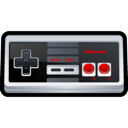
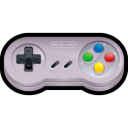
Ajout image des manettes dans la page d'affichage des roms

diff --git a/webemul/src/main/webapp/app/entities/rom/roms.html b/webemul/src/main/webapp/app/entities/rom/roms.html
@@ -1,8 +1,12 @@
-<div>
+<div ng-show="vm.loading">
+	<img src="content/images/ajax-loader.gif"  class="img-responsive center-block" />
+</div>  
+	
+<div ng-show="!vm.loading">
 	<div class="container-fluid">
 		<div class="row">			
 			<div class="col-md-8 col-md-offset-2">
-				<div id="dock-container">
+				<div id="dock-container" ng-show="vm.roms && vm.roms.length>0">
 					<div id="dock">
 						<ul>
 							<li ng-repeat="console in vm.consoles | orderBy:['manufacturer', 'bits', 'name']"><span>{{console.abbreviation}}</span>
@@ -24,7 +28,13 @@
 
 	<br />
 	
-	<div class="widget stacked widget-table action-table">
+	<div ng-show="vm.roms && vm.roms.length==0">
+    	<div class="alert alert-info">
+  			<strong>No rom found ! </strong> The database doesn't contain any rom.
+		</div>    	
+    </div>
+	
+	<div ng-show="vm.roms && vm.roms.length>0" class="widget stacked widget-table action-table">
 
 		<div class="widget-content">
 
@@ -53,8 +63,8 @@
 						ng-repeat="console in vm.consoles"> <a
 							ng-show="rom.consoleId==console.id"
 							ui-sref="console-detail({id:rom.consoleId})"> <img
-								ng-show="console.pathIcon" style="width: 40px;"
-								ng-src="{{console.pathIcon}}" alt="...">
+								ng-show="console.pathControllerIcon" style="width: 40px;"
+								ng-src="{{console.pathControllerIcon}}" alt="...">
 						</a>
 					</span></td>
 					<td style="vertical-align: middle"><img ng-if="rom.cover"
@@ -97,75 +107,11 @@
 			</table>
 
 		</div>
-		<!-- /widget-content -->
-
 	</div>
-	<!-- /widget -->
-	
-	
-
-	<!-- div class="table-responsive">
-		<table class="jh-table table table-striped table-hover">
-			<thead>
-				<tr jh-sort="vm.predicate" ascending="vm.reverse"
-					callback="vm.transition()">
-					<th jh-sort-by="consoleId"><span>CONSOLE</span> <span
-						class="glyphicon glyphicon-sort"></span></th>
-					<th></th>
-					<th jh-sort-by="name"><span>NAME</span> <span
-						class="glyphicon glyphicon-sort"></span></th>
-					<th><span>CATEGORIES</span></th>
-					<th></th>
-				</tr>
-			</thead>
-			<tbody>
-				<tr ng-repeat="rom in vm.roms track by rom.id">
-					<td style="vertical-align: middle"><span
-						ng-repeat="console in vm.consoles"> <a
-							ng-show="rom.consoleId==console.id"
-							ui-sref="console-detail({id:rom.consoleId})"> <img
-								ng-show="console.pathIcon" style="width: 40px;"
-								ng-src="{{console.pathIcon}}" alt="...">
-						</a>
-					</span></td>
-					<td style="vertical-align: middle"><img ng-if="rom.cover"
-						ng-src="{{rom.img}}" style="margin: auto; height: 70px"
-						ng-click="vm.openFile(rom.coverContentType, rom.cover)"
-						uib-popover popover-trigger="mouseenter" popover-placement="right"
-						uib-popover-template="'cover.html'"></td>
-					<td style="vertical-align: middle">{{rom.name}}</td>
-					<td style="vertical-align: middle"><span
-						ng-repeat="genre in rom.genres | orderBy:'name'">
-							{{genre.name}}{{$last ? '' : ', '}} </span></td>
-					<td style="vertical-align: middle" class="text-right">
-						<div class="btn-group flex-btn-group-container">
-							<button type="submit" ui-sref="rom-detail({id:rom.id})"
-								class="btn btn-info btn-sm">
-								<span class="glyphicon glyphicon-eye-open"></span> <span
-									class="hidden-sm-down"></span>
-							</button>
-							<button type="submit" ui-sref="rom.edit({id:rom.id})"
-								class="btn btn-primary btn-sm">
-								<span class="glyphicon glyphicon-pencil"></span> <span
-									class="hidden-sm-down"></span>
-							</button>
-							<button type="submit" ui-sref="rom.delete({id:rom.id})"
-								class="btn btn-danger btn-sm">
-								<span class="glyphicon glyphicon-remove-circle"></span> <span
-									class="hidden-sm-down"></span>
-							</button>
-						</div>
-					</td>
-				</tr>
-			</tbody>
-		</table>
-	</div-->
-	<div class="text-center">
-		<jhi-item-count page="vm.page" total="vm.queryCount"
-			items-per-page="vm.itemsPerPage"></jhi-item-count>
-		<uib-pagination class="pagination-sm" total-items="vm.totalItems"
-			items-per-page="vm.itemsPerPage" ng-model="vm.page"
-			ng-change="vm.transition()"></uib-pagination>
+			
+	<div class="text-center" ng-show="vm.roms && vm.roms.length>0">
+		<jhi-item-count page="vm.page" total="vm.queryCount" items-per-page="vm.itemsPerPage"></jhi-item-count>
+		<uib-pagination class="pagination-sm" total-items="vm.totalItems" items-per-page="vm.itemsPerPage" ng-model="vm.page" ng-change="vm.transition()"></uib-pagination>
 	</div>
 </div>
 

diff --git a/webemul/src/main/webapp/app/entities/console/console-dialog.html b/webemul/src/main/webapp/app/entities/console/console-dialog.html
@@ -41,7 +41,25 @@
             <label class="control-label" for="field_pathIcon">Path Icon</label>
             <input type="text" class="form-control" name="pathIcon" id="field_pathIcon"
                     ng-model="vm.console.pathIcon"
-                    />
+                    required/>
+            <div ng-show="editForm.pathIcon.$invalid">
+                <p class="help-block"
+                    ng-show="editForm.pathIcon.$error.required">
+                    This field is required.
+                </p>
+            </div>
+        </div>
+        <div class="form-group">
+            <label class="control-label" for="field_pathControllerIcon">Path Controller Icon</label>
+            <input type="text" class="form-control" name="pathControllerIcon" id="field_pathControllerIcon"
+                    ng-model="vm.console.pathControllerIcon"
+                    required/>
+            <div ng-show="editForm.pathControllerIcon.$invalid">
+                <p class="help-block"
+                    ng-show="editForm.pathControllerIcon.$error.required">
+                    This field is required.
+                </p>
+            </div>
         </div>
         <div class="form-group">
             <label class="control-label" for="field_manufacturer">Manufacturer</label>
@@ -65,6 +83,12 @@
             <label class="control-label" for="field_resume">Resume</label>
             <input type="text" class="form-control" name="resume" id="field_resume"
                     ng-model="vm.console.resume"
+                    />
+        </div>
+        <div class="form-group">
+            <label class="control-label" for="field_pathRomsFolder">Path Roms Folder</label>
+            <input type="text" class="form-control" name="pathRomsFolder" id="field_pathRomsFolder"
+                    ng-model="vm.console.pathRomsFolder"
                     />
         </div>
 

diff --git a/webemul/src/main/webapp/app/entities/console/console-dialog.controller.js b/webemul/src/main/webapp/app/entities/console/console-dialog.controller.js
@@ -5,9 +5,9 @@
         .module('webApp')
         .controller('ConsoleDialogController', ConsoleDialogController);
 
-    ConsoleDialogController.$inject = ['$timeout', '$scope', '$stateParams', '$uibModalInstance', '$q', 'entity', 'Console', 'Emulator', 'Rom'];
+    ConsoleDialogController.$inject = ['$q','$timeout', '$scope', '$stateParams', '$uibModalInstance', 'entity', 'Console', 'Rom', 'Emulator'];
 
-    function ConsoleDialogController ($timeout, $scope, $stateParams, $uibModalInstance, $q, entity, Console, Emulator, Rom) {
+    function ConsoleDialogController ($q, $timeout, $scope, $stateParams, $uibModalInstance, entity, Console, Rom, Emulator) {
         var vm = this;
 
         vm.console = entity;
@@ -28,7 +28,7 @@
             }
             return Emulator.get({id : vm.console.defaultEmulatorId}).$promise;
         });
-        vm.roms = Rom.query();
+        // vm.roms = Rom.query();
         vm.emulators = Emulator.query();
 
         $timeout(function (){
@@ -49,7 +49,7 @@
         }
 
         function onSaveSuccess (result) {
-            $scope.$emit('webApp:consoleUpdate', result);
+            $scope.$emit('webEmulApp:consoleUpdate', result);
             $uibModalInstance.close(result);
             vm.isSaving = false;
         }

diff --git a/webemul/src/main/webapp/app/entities/console/console-detail.html b/webemul/src/main/webapp/app/entities/console/console-detail.html
@@ -16,6 +16,10 @@
         <dd>
             <span>{{vm.console.pathIcon}}</span>
         </dd>
+        <dt><span>Path Controller Icon</span></dt>
+        <dd>
+            <span>{{vm.console.pathControllerIcon}}</span>
+        </dd>
         <dt><span>Manufacturer</span></dt>
         <dd>
             <span>{{vm.console.manufacturer}}</span>
@@ -31,6 +35,10 @@
         <dt><span>Resume</span></dt>
         <dd>
             <span>{{vm.console.resume}}</span>
+        </dd>
+        <dt><span>Path Roms Folder</span></dt>
+        <dd>
+            <span>{{vm.console.pathRomsFolder}}</span>
         </dd>
         <dt><span>Default Emulator</span></dt>
         <dd>        

diff --git a/webemul/src/main/webapp/app/entities/console/console.state.js b/webemul/src/main/webapp/app/entities/console/console.state.js
@@ -98,10 +98,12 @@
                                 abbreviation: null,
                                 name: null,
                                 pathIcon: null,
+                                pathControllerIcon: null,
                                 manufacturer: null,
                                 generation: null,
                                 bits: null,
                                 resume: null,
+                                pathRomsFolder: null,
                                 id: null
                             };
                         }

diff --git a/webemul/src/main/webapp/app/entities/rom/rom-dialog.html b/webemul/src/main/webapp/app/entities/rom/rom-dialog.html
@@ -74,7 +74,7 @@
 
         <div class="form-group">
             <label for="field_console">Console</label>
-            <select class="form-control" id="field_console" name="console" ng-model="vm.rom.consoleId" ng-options="console.id as console.id for console in vm.consoles"            >
+            <select class="form-control" id="field_console" name="console" ng-model="vm.rom.consoleId" ng-options="console.id as console.name for console in vm.consoles"            >
                 <option value=""></option>
             </select>
         </div>

diff --git a/webemul/src/main/java/fr/provenzano/webemul/domain/Console.java b/webemul/src/main/java/fr/provenzano/webemul/domain/Console.java
@@ -31,8 +31,13 @@ public class Console implements Serializable {
     @Column(name = "name", nullable = false)
     private String name;
 
-    @Column(name = "path_icon")
+    @NotNull
+    @Column(name = "path_icon", nullable = false)
     private String pathIcon;
+
+    @NotNull
+    @Column(name = "path_controller_icon", nullable = false)
+    private String pathControllerIcon;
 
     @Column(name = "manufacturer")
     private String manufacturer;
@@ -45,6 +50,9 @@ public class Console implements Serializable {
 
     @Column(name = "resume")
     private String resume;
+
+    @Column(name = "path_roms_folder")
+    private String pathRomsFolder;
 
     @OneToMany(mappedBy = "console")
     @JsonIgnore
@@ -107,6 +115,19 @@ public class Console implements Serializable {
         this.pathIcon = pathIcon;
     }
 
+    public String getPathControllerIcon() {
+        return pathControllerIcon;
+    }
+
+    public Console pathControllerIcon(String pathControllerIcon) {
+        this.pathControllerIcon = pathControllerIcon;
+        return this;
+    }
+
+    public void setPathControllerIcon(String pathControllerIcon) {
+        this.pathControllerIcon = pathControllerIcon;
+    }
+
     public String getManufacturer() {
         return manufacturer;
     }
@@ -157,6 +178,19 @@ public class Console implements Serializable {
 
     public void setResume(String resume) {
         this.resume = resume;
+    }
+
+    public String getPathRomsFolder() {
+        return pathRomsFolder;
+    }
+
+    public Console pathRomsFolder(String pathRomsFolder) {
+        this.pathRomsFolder = pathRomsFolder;
+        return this;
+    }
+
+    public void setPathRomsFolder(String pathRomsFolder) {
+        this.pathRomsFolder = pathRomsFolder;
     }
 
     public Set<Rom> getRoms() {
@@ -248,10 +282,12 @@ public class Console implements Serializable {
             ", abbreviation='" + getAbbreviation() + "'" +
             ", name='" + getName() + "'" +
             ", pathIcon='" + getPathIcon() + "'" +
+            ", pathControllerIcon='" + getPathControllerIcon() + "'" +
             ", manufacturer='" + getManufacturer() + "'" +
             ", generation=" + getGeneration() +
             ", bits=" + getBits() +
             ", resume='" + getResume() + "'" +
+            ", pathRomsFolder='" + getPathRomsFolder() + "'" +
             "}";
     }
 }

diff --git a/webemul/src/main/java/fr/provenzano/webemul/service/dto/ConsoleDTO.java b/webemul/src/main/java/fr/provenzano/webemul/service/dto/ConsoleDTO.java
@@ -20,7 +20,11 @@ public class ConsoleDTO implements Serializable {
     @NotNull
     private String name;
 
+    @NotNull
     private String pathIcon;
+
+    @NotNull
+    private String pathControllerIcon;
 
     private String manufacturer;
 
@@ -29,6 +33,8 @@ public class ConsoleDTO implements Serializable {
     private Integer bits;
 
     private String resume;
+
+    private String pathRomsFolder;
 
     private Long defaultEmulatorId;
 
@@ -66,6 +72,14 @@ public class ConsoleDTO implements Serializable {
         this.pathIcon = pathIcon;
     }
 
+    public String getPathControllerIcon() {
+        return pathControllerIcon;
+    }
+
+    public void setPathControllerIcon(String pathControllerIcon) {
+        this.pathControllerIcon = pathControllerIcon;
+    }
+
     public String getManufacturer() {
         return manufacturer;
     }
@@ -96,6 +110,14 @@ public class ConsoleDTO implements Serializable {
 
     public void setResume(String resume) {
         this.resume = resume;
+    }
+
+    public String getPathRomsFolder() {
+        return pathRomsFolder;
+    }
+
+    public void setPathRomsFolder(String pathRomsFolder) {
+        this.pathRomsFolder = pathRomsFolder;
     }
 
     public Long getDefaultEmulatorId() {
@@ -142,10 +164,12 @@ public class ConsoleDTO implements Serializable {
             ", abbreviation='" + getAbbreviation() + "'" +
             ", name='" + getName() + "'" +
             ", pathIcon='" + getPathIcon() + "'" +
+            ", pathControllerIcon='" + getPathControllerIcon() + "'" +
             ", manufacturer='" + getManufacturer() + "'" +
             ", generation=" + getGeneration() +
             ", bits=" + getBits() +
             ", resume='" + getResume() + "'" +
+            ", pathRomsFolder='" + getPathRomsFolder() + "'" +
             "}";
     }
 }

diff --git a/webemul/src/main/java/fr/provenzano/webemul/service/mapper/ConsoleMapperImpl.java b/webemul/src/main/java/fr/provenzano/webemul/service/mapper/ConsoleMapperImpl.java
@@ -72,6 +72,8 @@ public class ConsoleMapperImpl implements ConsoleMapper {
         consoleDTO.setBits( console.getBits() );
         consoleDTO.setResume( console.getResume() );
         consoleDTO.setEmulators( emulatorSetToEmulatorDTOSet( console.getEmulators() ) );
+        consoleDTO.setPathControllerIcon( console.getPathControllerIcon() );
+        consoleDTO.setPathRomsFolder( console.getPathRomsFolder() );
 
         return consoleDTO;
     }
@@ -94,7 +96,9 @@ public class ConsoleMapperImpl implements ConsoleMapper {
         console.setBits( consoleDTO.getBits() );
         console.setResume( consoleDTO.getResume() );
         console.setEmulators( emulatorDTOSetToEmulatorSet( consoleDTO.getEmulators() ) );
-
+        console.setPathControllerIcon( consoleDTO.getPathControllerIcon() );
+        console.setPathRomsFolder( consoleDTO.getPathRomsFolder() );
+        
         return console;
     }
 
